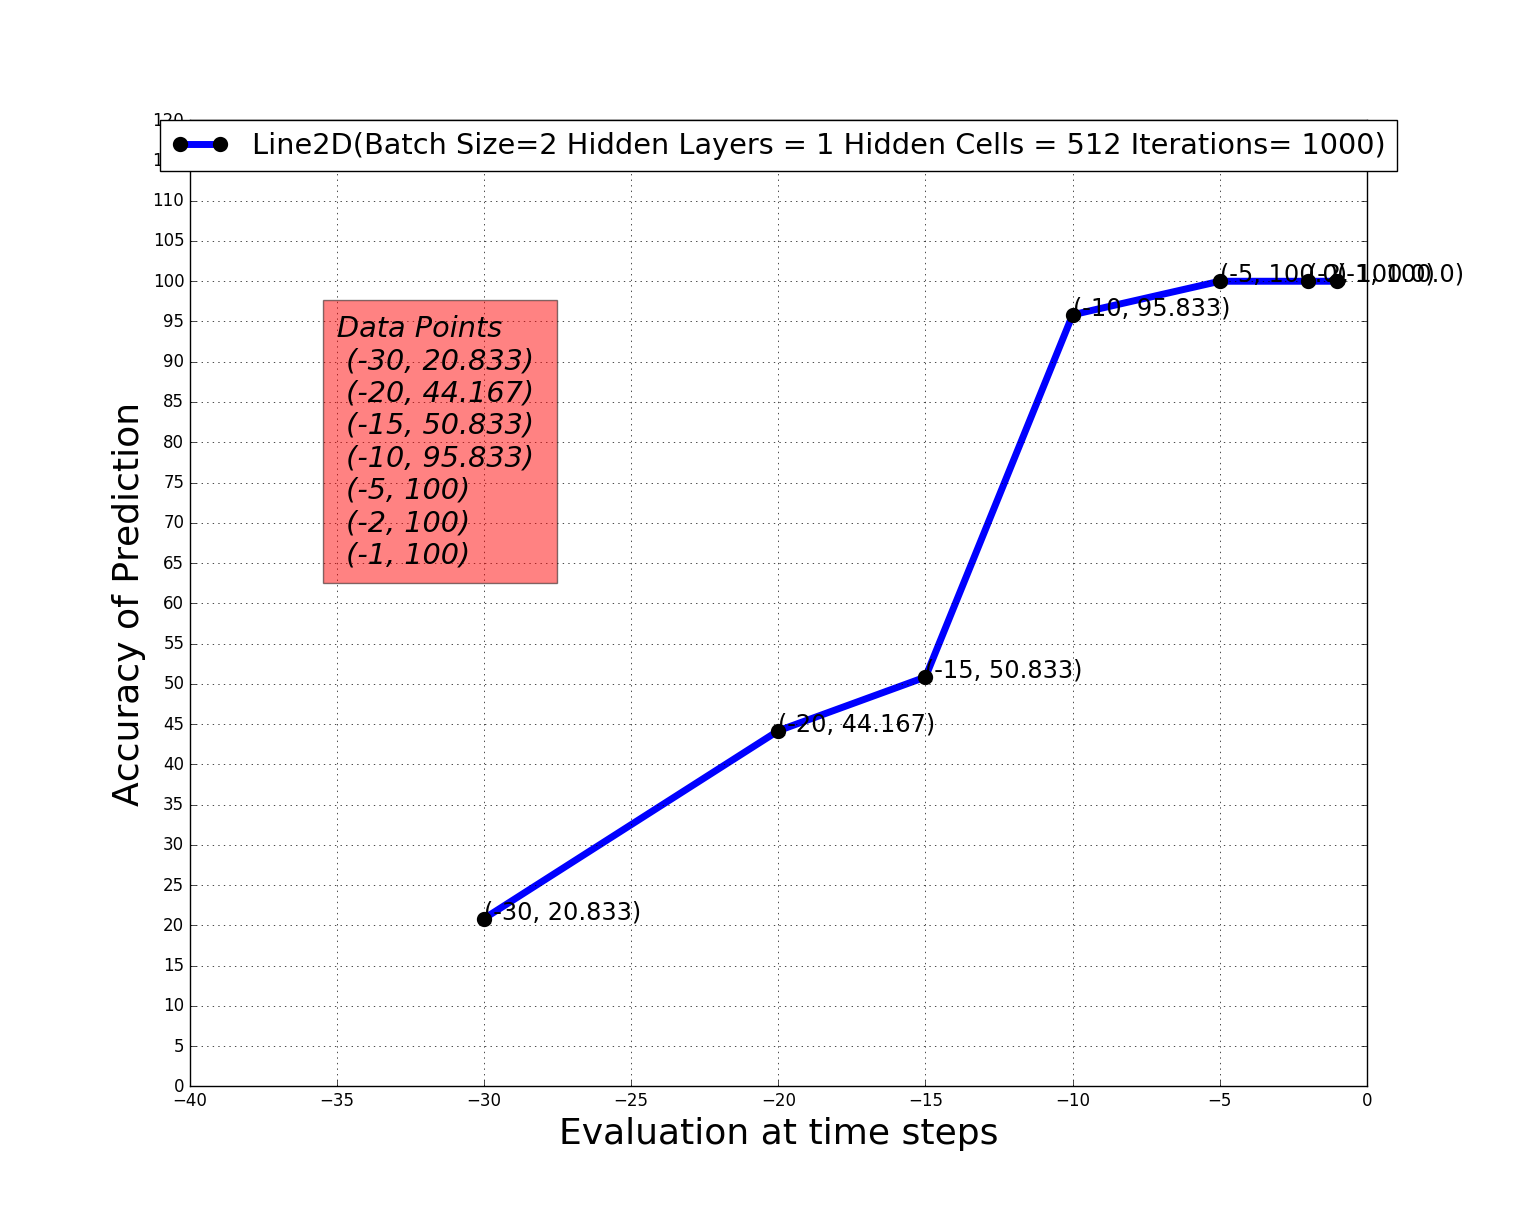
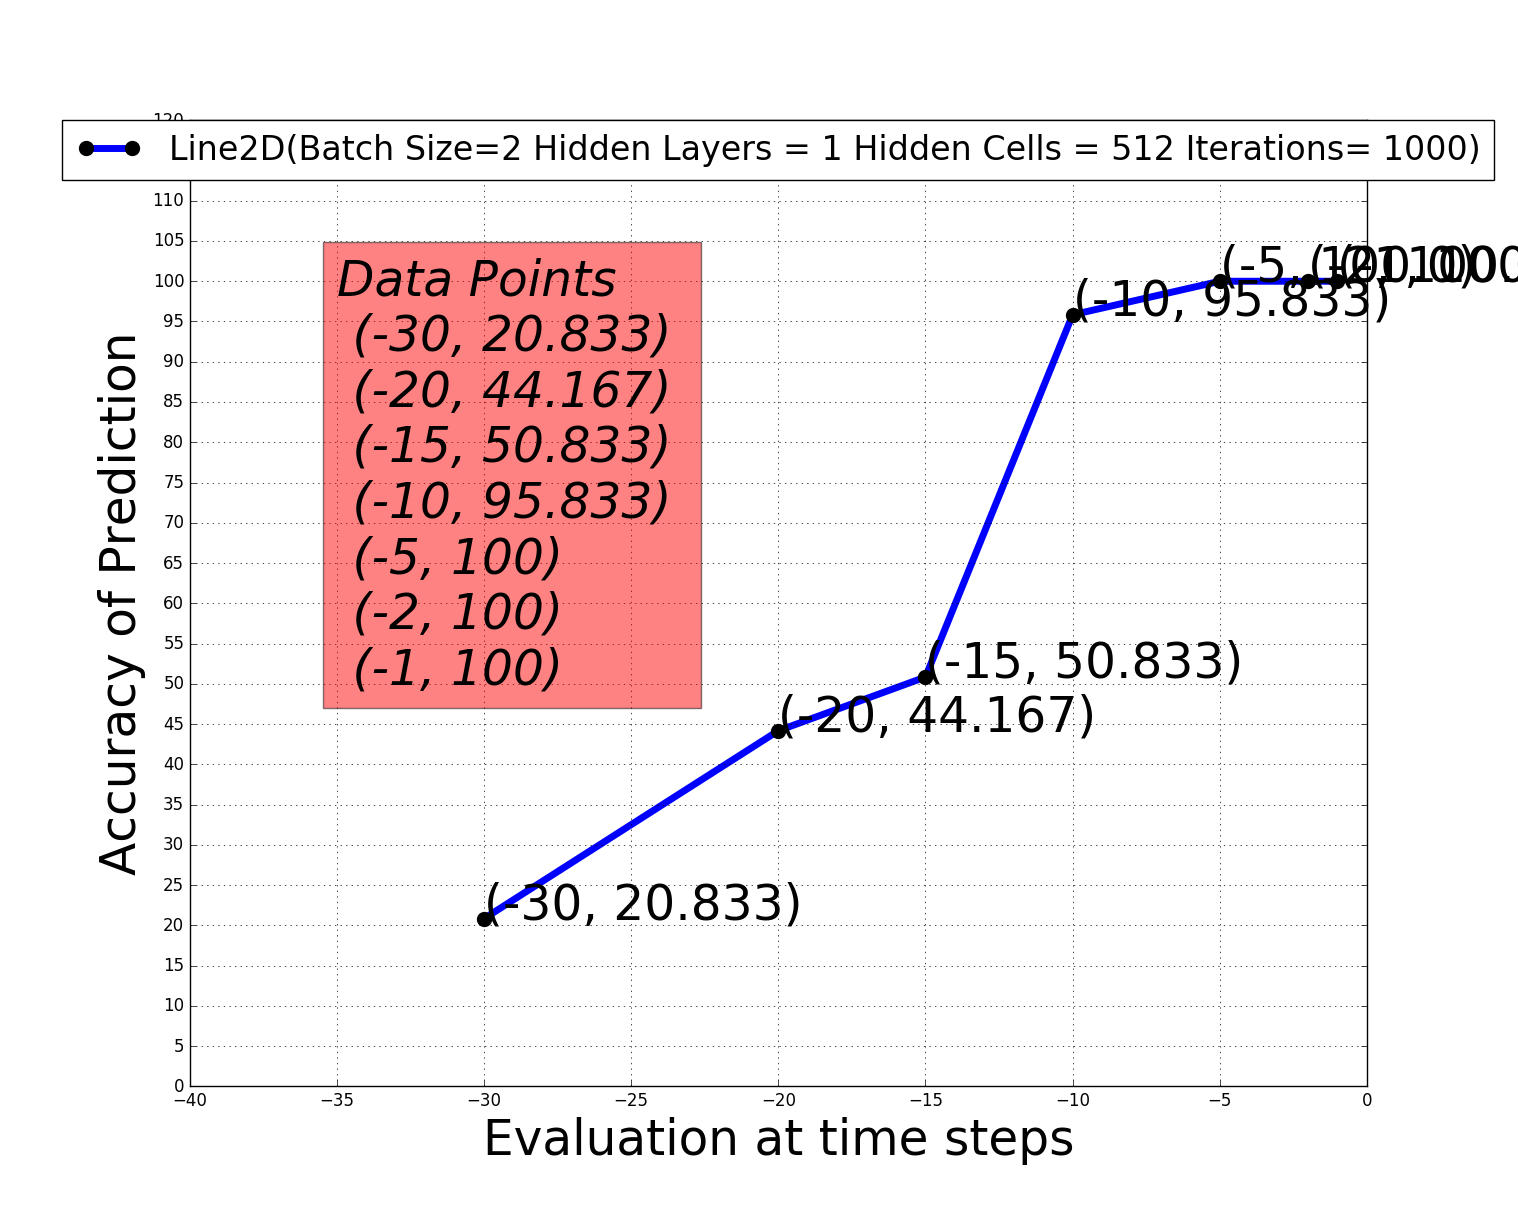
Trying with lesser no of cells

diff --git a/plot_acc_Timesteps.py b/plot_acc_Timesteps.py
@@ -9,7 +9,7 @@ Created on Fri May 12 10:54:21 2017
 import numpy as np
 import matplotlib.pyplot as plt
 import matplotlib.ticker as ticker
-from pylab import figure, axes, pie, title, show
+
 
 x_1 = [-30,-20, -15,  -10, -5, -2, -1]
 accuracy_1 = [20.833, 44.167, 50.833, 95.833, 100, 100, 100]
@@ -18,13 +18,13 @@ x=np.array(x_1)
 accuracy = np.array(accuracy_1)
 
 fig, ax = plt.subplots(1,1)
-axis_font = {'fontname':'Arial', 'size':'26'}
+axis_font = {'fontname':'Arial', 'size':'35'}
 
 p1, =plt.plot( x, accuracy, label="Batch Size=2 Hidden Layers = 1 Hidden Cells = 512 Iterations= 1000", linewidth=5, marker='o', markeredgewidth= '5', markerfacecolor='black', color='b')
 for xy in zip(x, accuracy):                                       
-    ax.annotate('(%s, %s)' % xy, fontsize = 'x-large', xy=xy, textcoords='data')
+    ax.annotate('(%s, %s)' % xy, fontsize = 35, xy=xy, textcoords='data')
 
-ax.text(-35, 65, 'Data Points \n (-30, 20.833) \n (-20, 44.167) \n (-15, 50.833) \n (-10, 95.833) \n (-5, 100) \n (-2, 100) \n (-1, 100)', style='italic', fontsize = 'xx-large',
+ax.text(-35, 50, 'Data Points \n (-30, 20.833) \n (-20, 44.167) \n (-15, 50.833) \n (-10, 95.833) \n (-5, 100) \n (-2, 100) \n (-1, 100)', style='italic', fontsize = 35,
         bbox={'facecolor':'red', 'alpha':3.5, 'pad':10})
 
 plt.grid()
@@ -38,6 +38,6 @@ ax.xaxis.set_major_locator(ticker.MultipleLocator(5))
 ax.yaxis.set_major_locator(ticker.MultipleLocator(5))
 
 
-plt.legend([p1], loc='upper center', fontsize = 'xx-large', borderaxespad=0.)	#
+plt.legend([p1], loc='upper center', fontsize = 24, borderaxespad=0.)	#
 plt.show()
 fig.savefig('figure.png')

diff --git a/rnn_lstm.py b/rnn_lstm.py
@@ -245,9 +245,9 @@ with tf.Session() as sess:
 
     print ('Final accuracy = ', ((float(accuracy_counter))/(float(n_test)) *float(100))   , '%'    )
 
-if os.path.exists('results'+str(outp)+'.json')==True:
+if os.path.exists('results_after'+'.json')==True:
 
-	with open('results'+str(outp)+'.json') as f:
+	with open('results_after'+'.json') as f:
    		dic = json.load(f)
 else:
 		dic=OrderedDict()	
@@ -256,8 +256,9 @@ s= "Batch size = "+str(batch_size)+"---"+ "Hidden Layers = "+str(n_layers)+"---"
 
 dic[s] = ((float(accuracy_counter))/(float(n_test)) *float(100))
 
-#with open('results.json', 'w') as f:
-#		json.dump(dic, f)
+with open('results_after'+'.json', 'w') as f:
+		json.dump(dic, f)
+
 
 print (time.time()-start)
 

diff --git a/plot_with10neurons.py b/plot_with10neurons.py
@@ -1,0 +1,15 @@
+#!/usr/bin/env python2
+# -*- coding: utf-8 -*-
+"""
+Created on Tue May 16 15:32:09 2017
+
+@author: admin
+"""
+
+import numpy as np
+import matplotlib.pyplot as plt
+import matplotlib.ticker as ticker
+
+iterations = [1000, 2000, 3000, 4000, 5000, 6000, 7000, 8000, 9000, 10000]
+accuracy_10 = [47.5, 39.167, 51.67, 61.67, 98.33, 100.0, 72.5, 80.0, 100.0, 100.0]
+accuracy_8 = []
